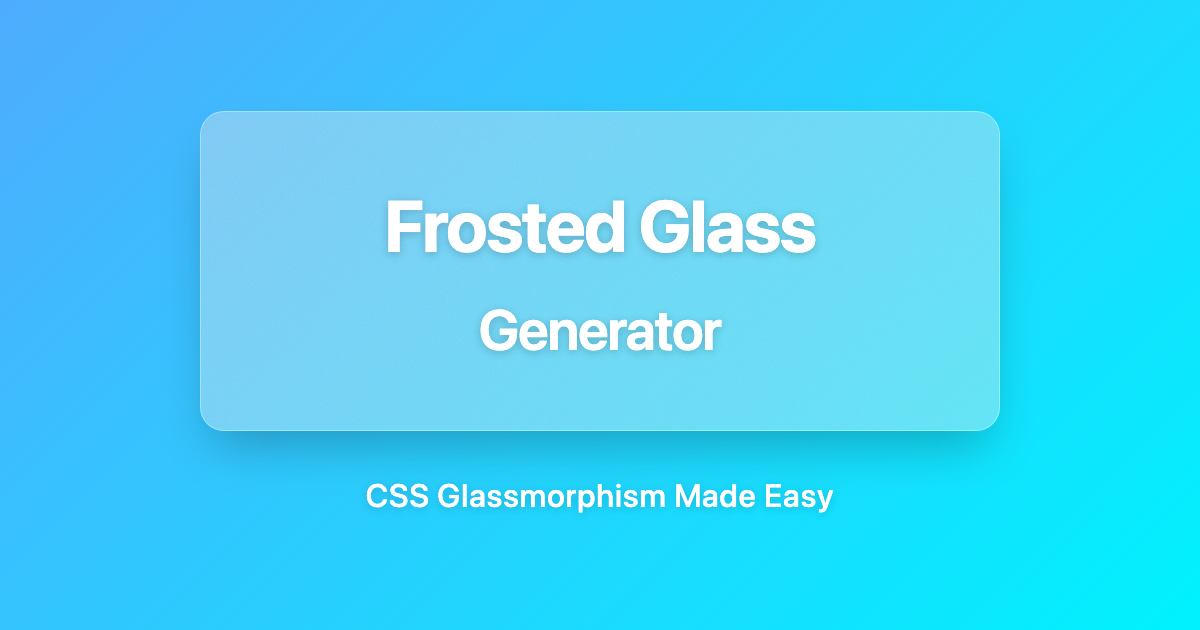
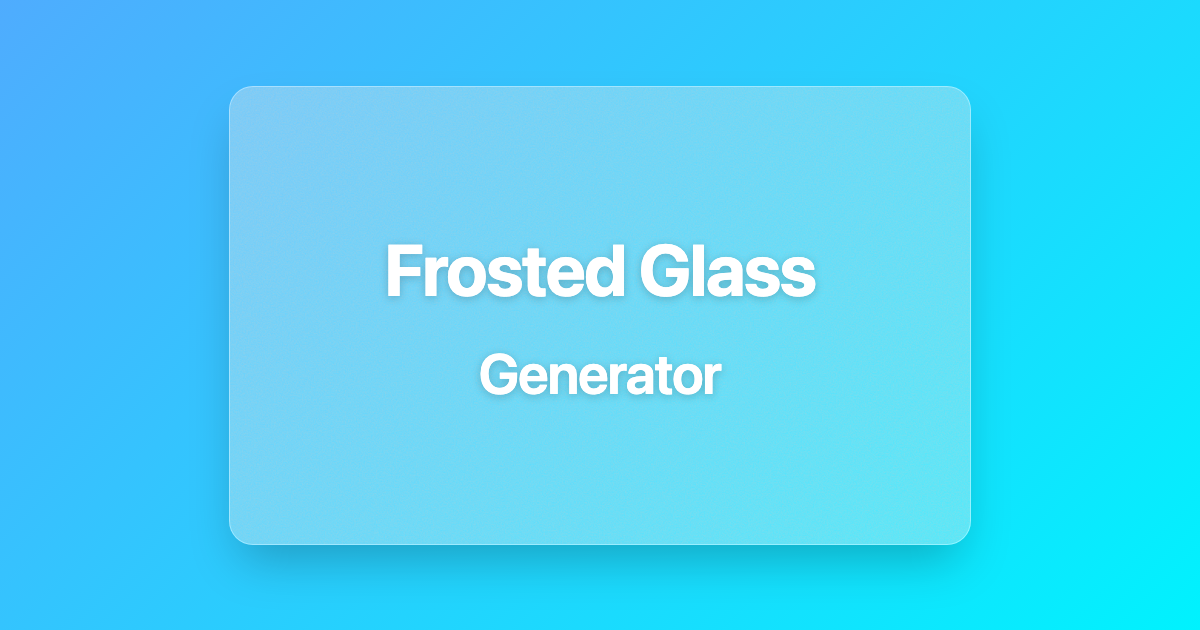
refactor: simplify OG image with golden ratio panel
- Remove tagline, keep title only
- Apply golden ratio to panel dimensions (742 x 459)

Changed region(s): [[0.1542, 0.1206, 0.8325, 0.9048], [0.3083, 0.3016, 0.6783, 0.6333]]

diff --git a/src/components/og-image/OGImage.tsx b/src/components/og-image/OGImage.tsx
@@ -1,7 +1,15 @@
 /**
  * OG Image component for social sharing preview.
  * Render this at 1200x630 and capture with Playwright.
+ *
+ * Panel dimensions based on golden ratio (φ = 1.618):
+ * - Width: 1200 / φ ≈ 742
+ * - Height: 742 / φ ≈ 459
  */
+const PHI = 1.618;
+const PANEL_WIDTH = Math.round(1200 / PHI); // 742
+const PANEL_HEIGHT = Math.round(PANEL_WIDTH / PHI); // 459
+
 export function OGImage() {
   return (
     <div
@@ -10,7 +18,6 @@ export function OGImage() {
         height: 630,
         background: "linear-gradient(135deg, #4facfe 0%, #00f2fe 100%)",
         display: "flex",
-        flexDirection: "column",
         alignItems: "center",
         justifyContent: "center",
         fontFamily:
@@ -22,8 +29,8 @@ export function OGImage() {
       {/* Frosted Glass Panel */}
       <div
         style={{
-          width: 800,
-          height: 320,
+          width: PANEL_WIDTH,
+          height: PANEL_HEIGHT,
           borderRadius: 24,
           background: "rgba(255, 255, 255, 0.25)",
           backdropFilter: "blur(20px)",
@@ -96,20 +103,6 @@ export function OGImage() {
           Generator
         </h2>
       </div>
-
-      {/* Tagline */}
-      <p
-        style={{
-          fontSize: 32,
-          fontWeight: 500,
-          color: "white",
-          textShadow: "0 2px 8px rgba(0, 0, 0, 0.15)",
-          marginTop: 40,
-          letterSpacing: "0.02em",
-        }}
-      >
-        CSS Glassmorphism Made Easy
-      </p>
     </div>
   );
 }
